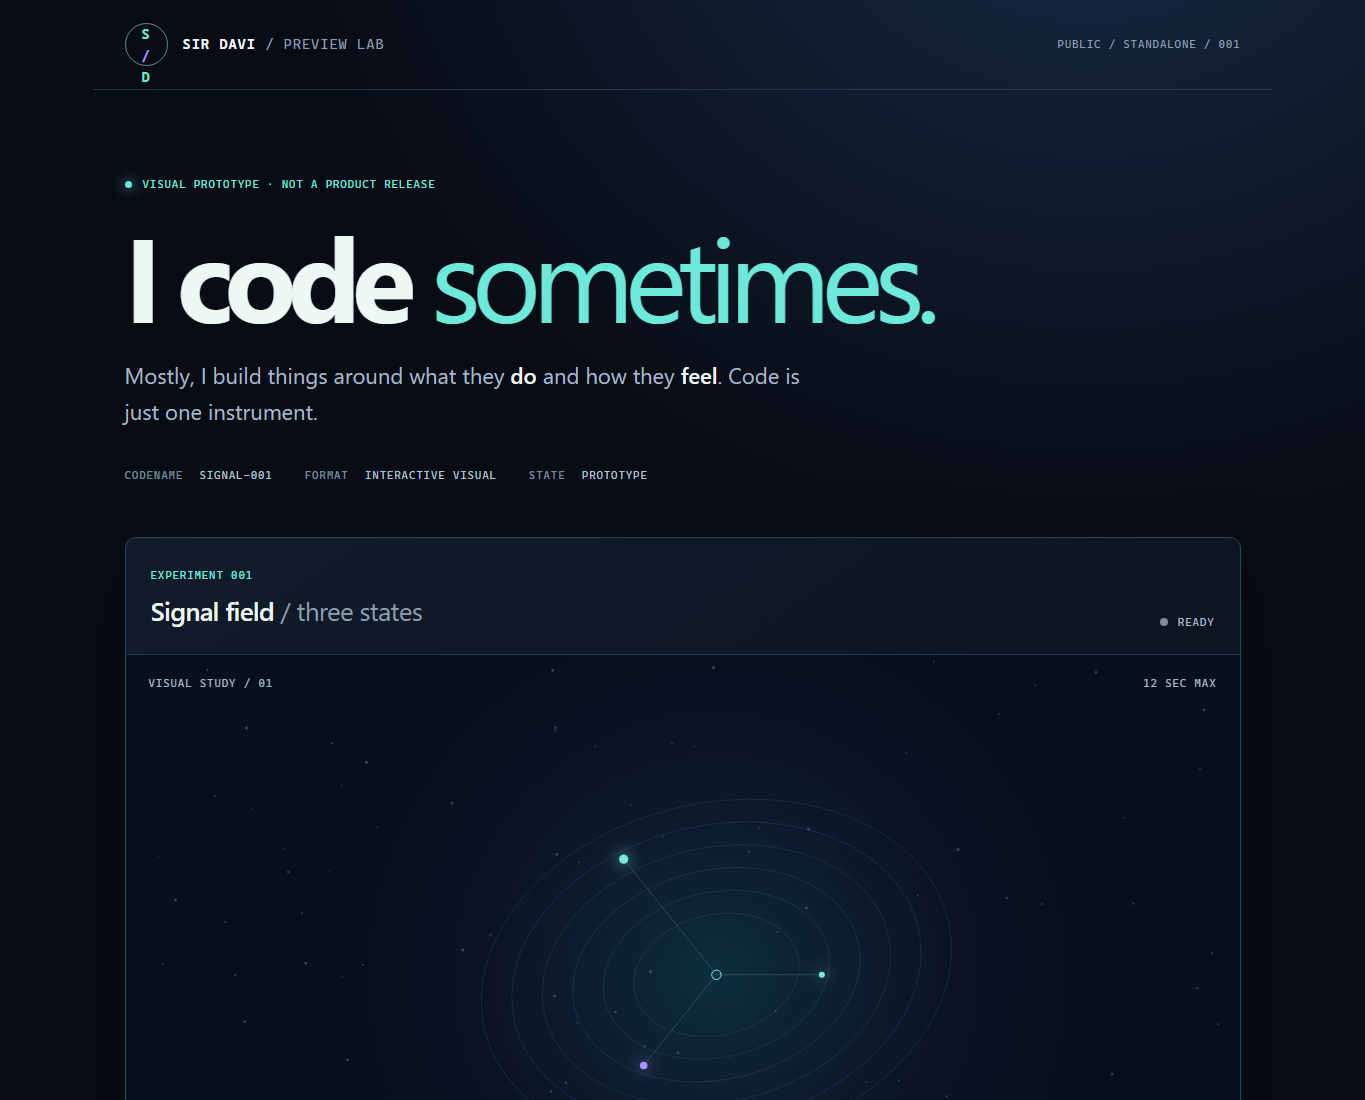
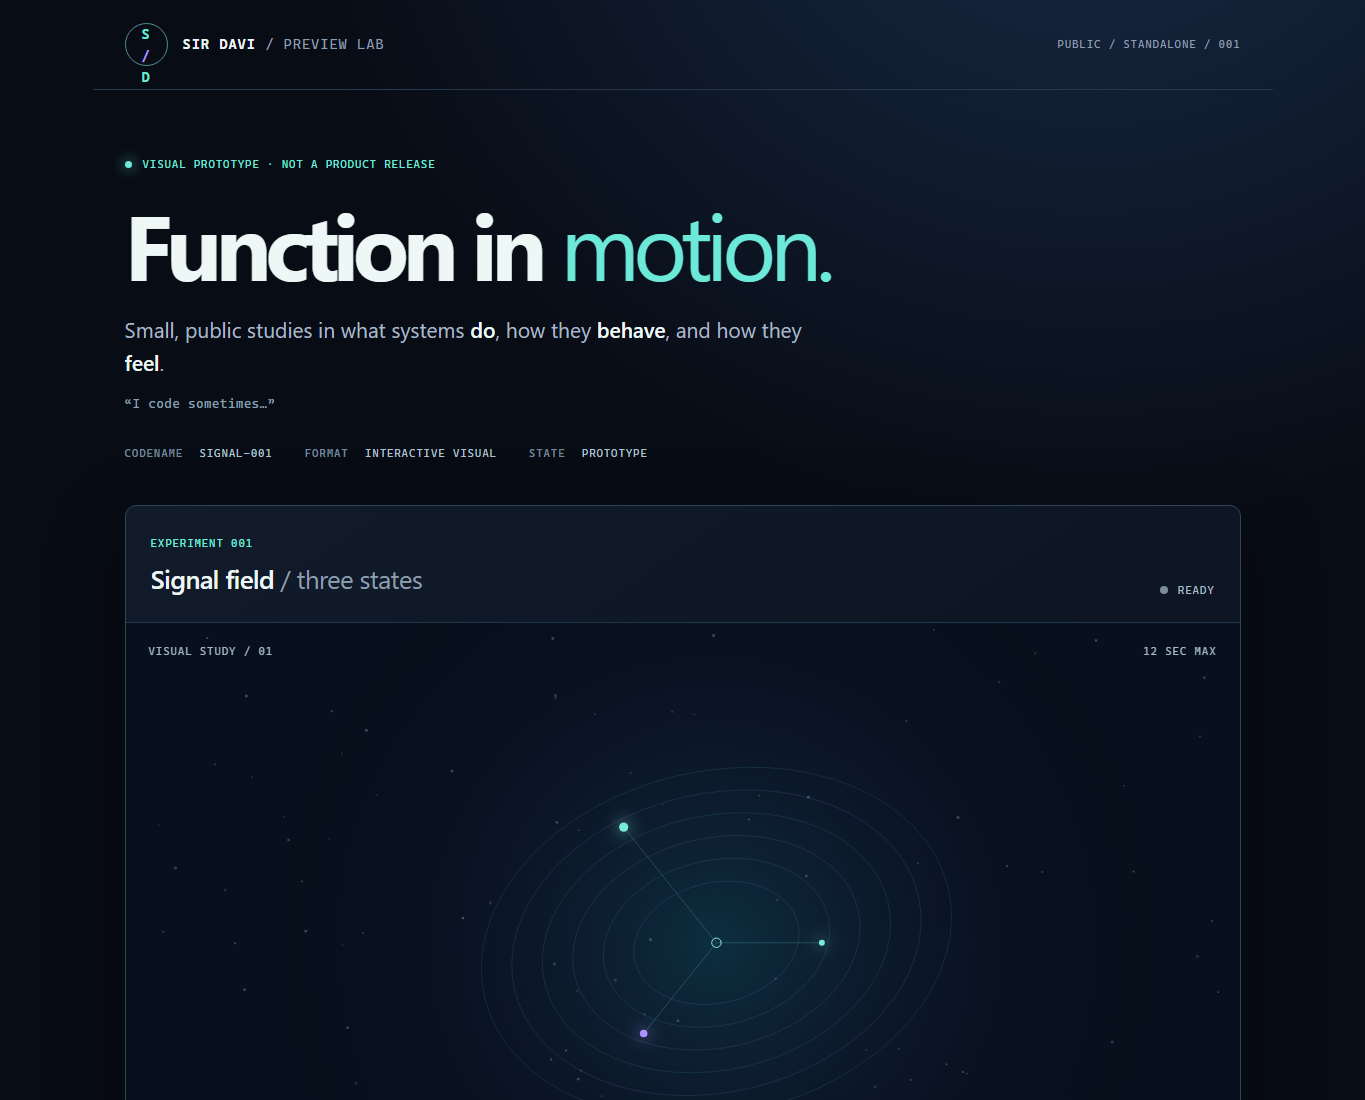
design: make quoted motto a subtle aside (#2)

diff --git a/docs/site.css b/docs/site.css
@@ -12,12 +12,13 @@ a{color:inherit}
 .scope,.overline,.eyebrow,.meta,.live-label,.stage-overlay,.modes legend,.modes button,.playback button,footer{font-family:var(--mono);font-size:11px;letter-spacing:.08em}
 .scope{color:var(--muted)}
 main{padding:0 32px 90px}
-.intro{padding:86px 0 53px}
+.intro{padding:66px 0 43px}
 .eyebrow{color:var(--aqua);display:flex;gap:11px;align-items:center}
 .state-dot{width:7px;height:7px;border-radius:50%;background:var(--aqua);box-shadow:0 0 14px var(--aqua)}
-h1{font-size:clamp(48px,8.7vw,118px);line-height:1.02;letter-spacing:-.075em;margin:22px 0 23px;font-weight:690}
+h1{font-size:clamp(44px,6.8vw,92px);line-height:1.06;letter-spacing:-.067em;margin:22px 0 20px;font-weight:690}
 h1 em{font-weight:420;font-style:normal;color:var(--aqua)}
-.lede{font-size:clamp(17px,2vw,22px);max-width:690px;color:#a8b8c7;margin:0 0 38px;line-height:1.6}
+.lede{font-size:clamp(17px,2vw,21px);max-width:690px;color:#a8b8c7;margin:0 0 13px;line-height:1.6}
+.aside{font:400 13px/1.7 var(--mono);letter-spacing:.025em;color:#88a0b2;margin:0 0 30px}
 .lede strong{color:var(--ink);font-weight:600}
 .meta{display:flex;flex-wrap:wrap;gap:12px 32px;color:#afc2d0}
 .meta b{font-weight:500;color:#73879c;margin-right:9px}

diff --git a/docs/index.html b/docs/index.html
@@ -20,8 +20,9 @@
   <main>
     <section class="intro" aria-labelledby="headline">
       <div class="eyebrow"><span class="state-dot" aria-hidden="true"></span> VISUAL PROTOTYPE · NOT A PRODUCT RELEASE</div>
-      <h1 id="headline">I code <em>sometimes.</em></h1>
-      <p class="lede">Mostly, I build things around what they <strong>do</strong> and how they <strong>feel</strong>. Code is just one instrument.</p>
+      <h1 id="headline">Function in <em>motion.</em></h1>
+      <p class="lede">Small, public studies in what systems <strong>do</strong>, how they <strong>behave</strong>, and how they <strong>feel</strong>.</p>
+      <p class="aside">“I code sometimes…”</p>
       <div class="meta">
         <span><b>CODENAME</b> SIGNAL-001</span>
         <span><b>FORMAT</b> INTERACTIVE VISUAL</span>

diff --git a/tests/test_public_preview.py b/tests/test_public_preview.py
@@ -23,9 +23,27 @@ class PublicPreviewSourceTests(unittest.TestCase):
         for term in ("fetch(", "XMLHttpRequest", "WebSocket", "localStorage"):
             self.assertNotIn(term, script)
 
+    def test_quote_is_exact_and_subordinate_to_design_headline(self):
+        html = (ROOT / "docs" / "index.html").read_text(encoding="utf-8")
+        self.assertIn("\u201cI code sometimes\u2026\u201d", html)
+        self.assertIn('<p class="aside">', html)
+        self.assertIn("<h1", html)
+        self.assertNotIn("I code", html.split("<h1", 1)[1].split("</h1>", 1)[0])
+        self.assertLess(html.index("<h1"), html.index("“I code sometimes…”"))
+
+    def test_readme_leads_with_preview_and_quotes_aside(self):
+        readme = (ROOT / "README.md").read_text(encoding="utf-8")
+        self.assertTrue(readme.startswith("# Preview Lab"))
+        self.assertIn("\u201cI code sometimes\u2026\u201d", readme)
+
+    def test_quote_is_small_relative_to_headline(self):
+        css = (ROOT / "docs" / "site.css").read_text(encoding="utf-8")
+        self.assertIn(".aside{", css)
+        self.assertIn("font-size:13px", css)
+        self.assertIn("h1{", css)
     def test_no_private_project_name_in_public_readme(self):
         text = (ROOT / "README.md").read_text(encoding="utf-8")
-        self.assertIn("I code sometimes.", text)
+        self.assertIn("\u201cI code sometimes\u2026\u201d", text)
         self.assertIn("SIGNAL-001", text)
         self.assertIn("owner", text.lower())
 

diff --git a/scripts/browser_smoke.py b/scripts/browser_smoke.py
@@ -23,7 +23,10 @@ window.addEventListener("load",()=> {
   const d=document.getElementById("demo").contentDocument;
   const el=id=>d.getElementById(id);
   const check=(ok,label)=>{if(!ok)bad.push(label)};
-  check(el("play-state").textContent==="READY","initial ready");
+  const heading=d.querySelector("h1"), aside=d.querySelector(".aside");
+  check(heading && heading.textContent.includes("Function in motion."),"function-led headline");
+  check(aside && aside.textContent==="\u201cI code sometimes\u2026\u201d","exact quoted aside");
+  check(aside && heading && parseFloat(d.defaultView.getComputedStyle(aside).fontSize)<parseFloat(d.defaultView.getComputedStyle(heading).fontSize),"subordinate typography");  check(el("play-state").textContent==="READY","initial ready");
   d.querySelector('[data-mode="wave"]').click();
   check(el("mode-readout").textContent==="WAVEFORM","wave selection");
   check(d.querySelector('[data-mode="wave"]').getAttribute("aria-pressed")==="true","mode accessibility");

diff --git a/README.md b/README.md
@@ -1,4 +1,6 @@
-# I code sometimes. / Preview Lab
+# Preview Lab
+
+“I code sometimes…”
 
 **A small public window into function, design, visual behavior and verification.**
 
